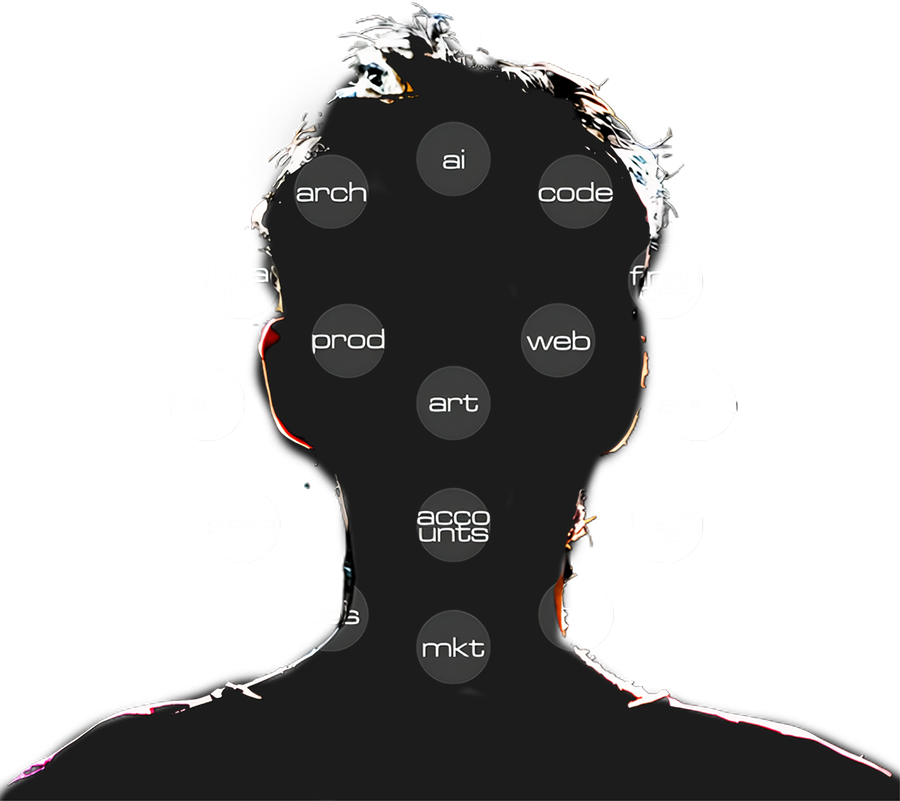
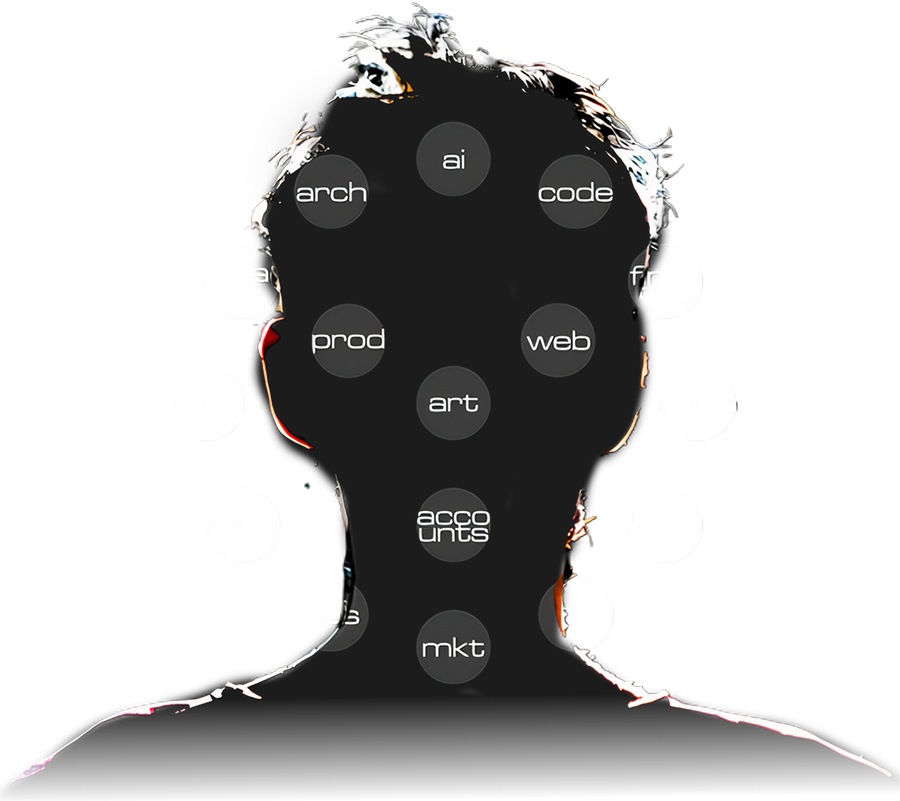
globals

Changed region(s): [[0.0, 0.8739, 1.0, 1.0]]

diff --git a/pages/cv.html b/pages/cv.html
@@ -96,8 +96,8 @@
         <div class="row">
             <div class="cvContainer">
                 <div class="cv-left row justify-content-center">
-                    <!-- <div class="glitch"></div> -->
-                    <div class="col-12"><img src="../assets/img/cvnah.png" alt=""></div>
+                    <div class="glitch"></div>
+                    <!-- <div class="col-12"><img src="../assets/img/cvnah.png" alt=""></div> -->
                     <ul class="border-bottom-2 border-white">
                         <li><a href="#" class="fa fa-whatsapp"></a> (+54) 11 2 642 0901</li>
                         <li><a href="#" class="fa fa-paper-plane"></a> nahuelezequielcorrea@gmail.com</li>
@@ -640,11 +640,7 @@
                                         </div>
                                     </div>
                                 </div>
-
-                                <div class="brandKent">
-                                    <img src="../assets/img/BrandKentNah.png" alt="">
-                                    <!-- <div class="glitched"></div> -->
-                                </div>
+                                <div class="glitched"></div>
                             </div>
                         </div>
                     </div>

diff --git a/index.html b/index.html
@@ -116,7 +116,7 @@
                     </div>
                 </div>
                 <!--Esta es la parte del logueo-->
-                <div class="col-sm-12 col-md-4 col-lg-3 col-xl-3">
+                <div class="col-sm-12 col-md-4 col-lg-3 col-xl-3 p-1">
                     <div class="mainLogcard">
                         <h4>Welcome to nec2 solutions</h4>
                         <p>You discover the dazzling way of seeing your project born and grow</p>

diff --git a/assets/scss/main.scss b/assets/scss/main.scss
@@ -36,7 +36,7 @@ main {
 .mainLogcard {
     background-image: linear-gradient(135deg, rgba(90, 107, 151, 0.432) 0%, rgba(15, 34, 49, 0.432) 100%);
     border-radius: 1rem; 
-    padding: 1rem;
+    padding: 2rem;
     text-align: center;
     filter: opacity(80);
 }

diff --git a/assets/scss/_animations.scss b/assets/scss/_animations.scss
@@ -79,7 +79,6 @@
   }
 }
 .glitc {
-  position: relative;
   top: 0;
   left: 0;
   right: 0;
